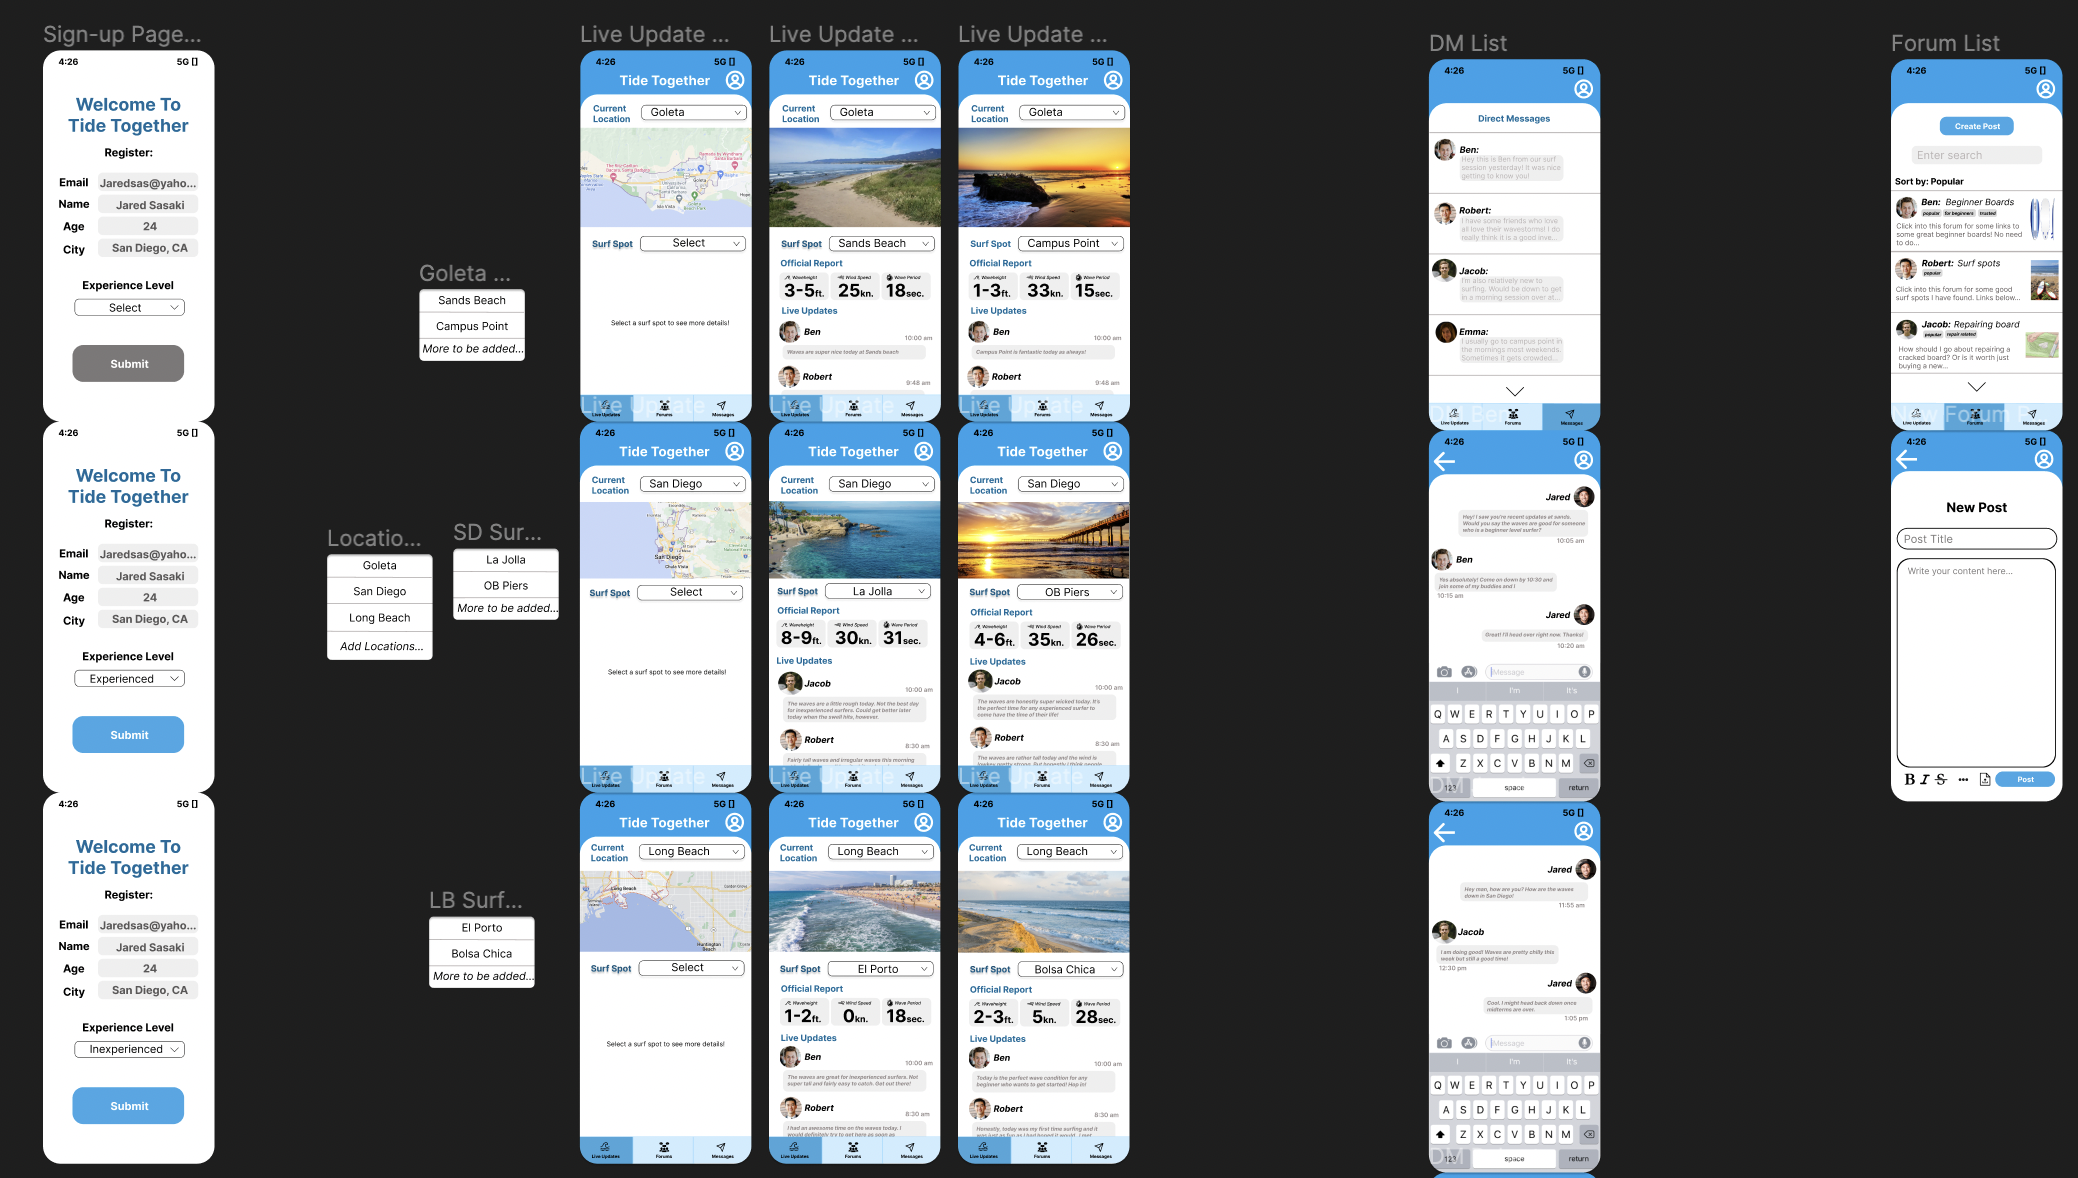
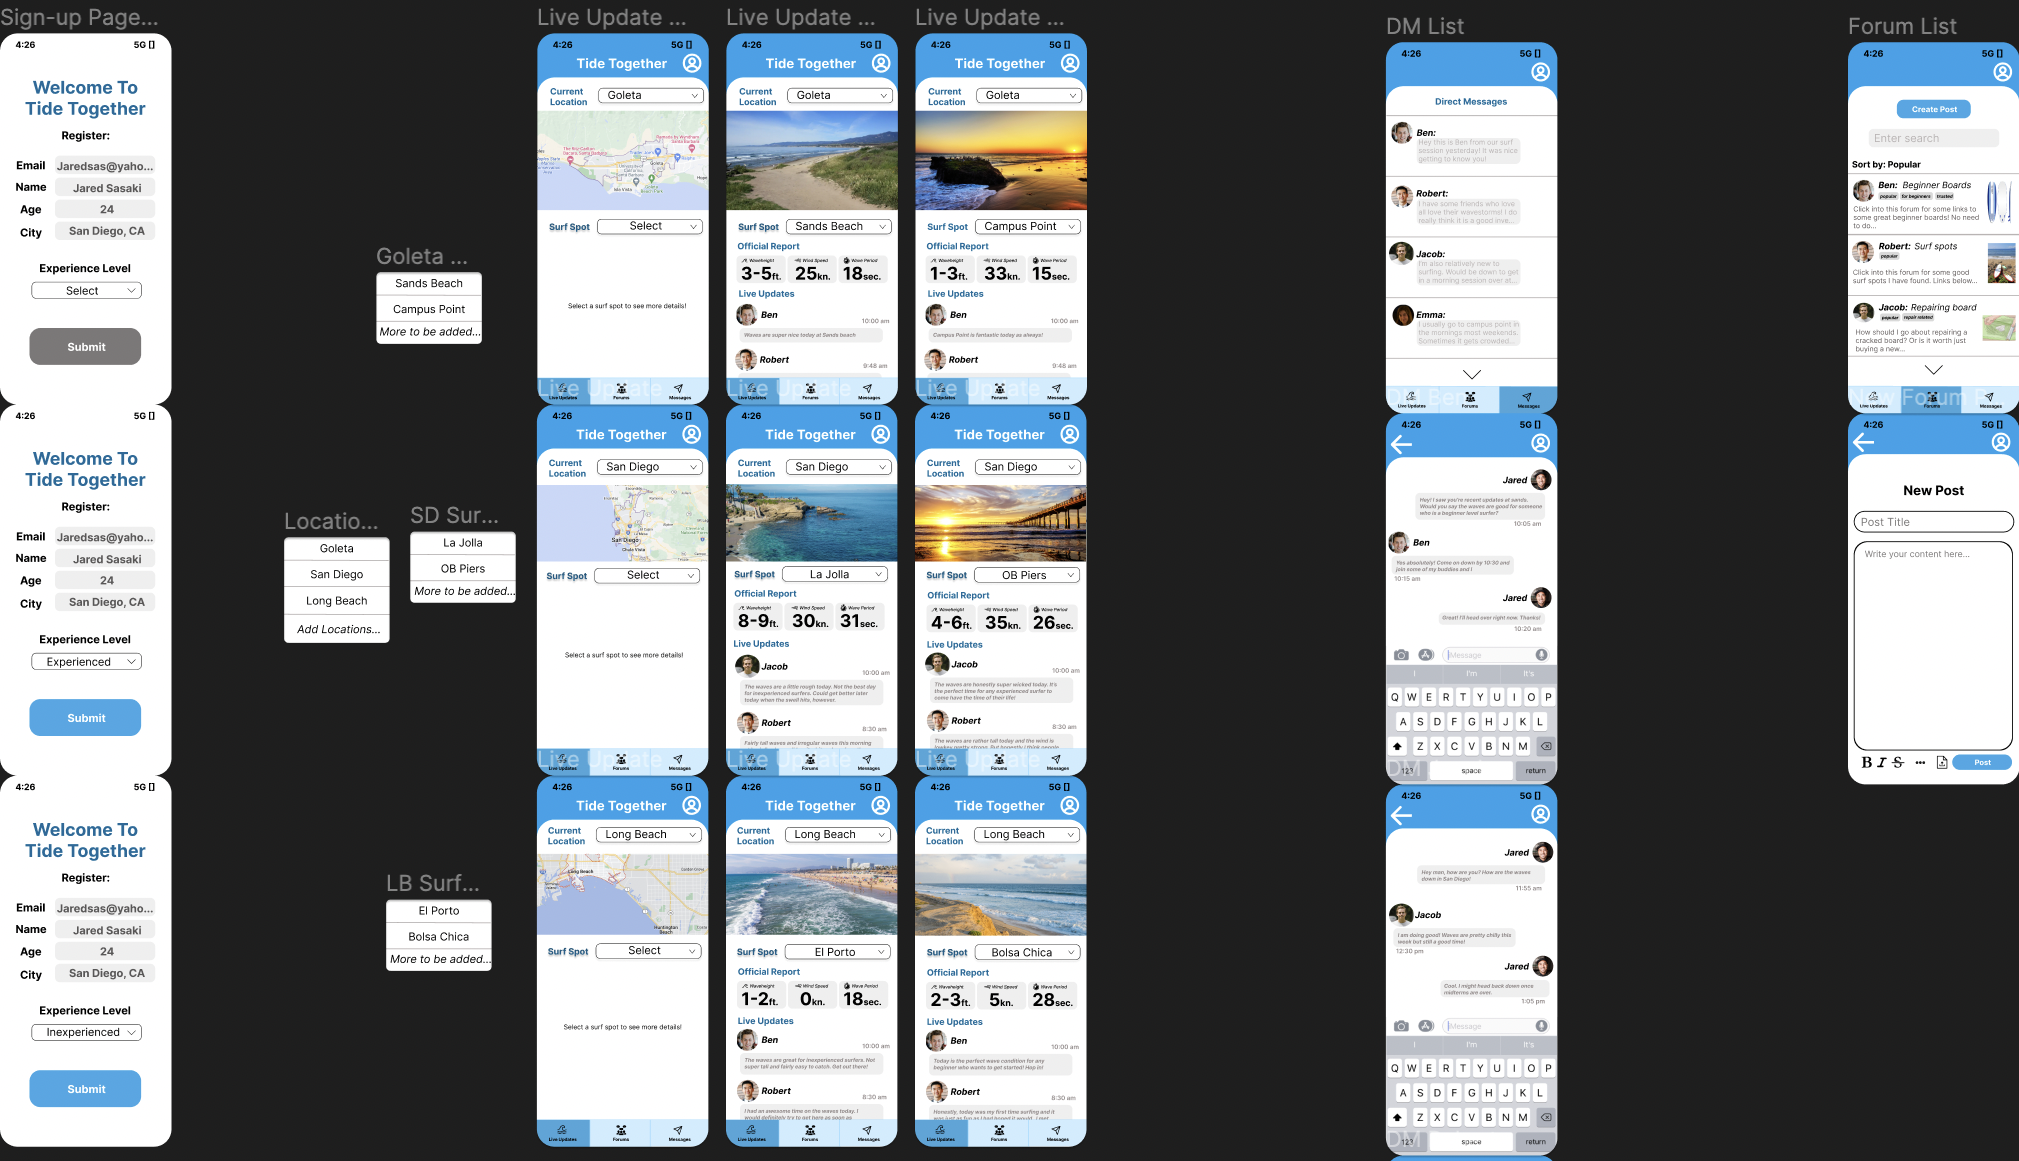
navbar numbers adjusted, new resume, tide together png cropped, disable ripple on navbar buttons

diff --git a/client/src/Components/Navbar.jsx b/client/src/Components/Navbar.jsx
@@ -32,7 +32,19 @@ const Navbar = ({ toggleDarkMode, isDarkMode }) => {
             <Toolbar style={{  display: 'flex', justifyContent: 'end' }}>
                 <List component="nav" aria-labelledby="main navigation" style={{ display: 'flex', justifyContent: 'end' }}>
                     <Fade in timeout={1500} style={{transitionDelay: '0ms'}}>
-                        <ListItem component={HashLink} to="#top" smooth button sx={{
+                        <ListItem component={HashLink} to="#top" smooth button disableRipple sx={{
+                                                    borderBottom: `1px solid transparent`,
+                                                    "&:hover": {
+                                                    backgroundColor: "transparent",
+                                                    borderBottom: `1px solid ${theme.palette.primary.textPrimary}`
+                                                    }
+                                                }}>
+                            <Typography style={{color: theme.palette.primary.textPrimary}}>00.&nbsp;&nbsp;</Typography>
+                            <ListItemText primary="Home" style={{ textDecoration: 'none', color: theme.palette.type === 'dark' ? theme.palette.primary.textSecondary : theme.palette.primary.textContrast }} />
+                        </ListItem>
+                    </Fade>
+                    <Fade in timeout={1500} style={{transitionDelay: '200ms'}}>
+                        <ListItem component={HashLink} to="#aboutme" smooth button disableRipple sx={{
                                                     borderBottom: `1px solid transparent`,
                                                     "&:hover": {
                                                     backgroundColor: "transparent",
@@ -40,11 +52,11 @@ const Navbar = ({ toggleDarkMode, isDarkMode }) => {
                                                     }
                                                 }}>
                             <Typography style={{color: theme.palette.primary.textPrimary}}>01.&nbsp;&nbsp;</Typography>
-                            <ListItemText primary="Home" style={{ textDecoration: 'none', color: theme.palette.type === 'dark' ? theme.palette.primary.textSecondary : theme.palette.primary.textContrast }} />
+                            <ListItemText primary="About" style={{ textDecoration: 'none', color: theme.palette.type === 'dark' ? theme.palette.primary.textSecondary : theme.palette.primary.textContrast }} />
                         </ListItem>
                     </Fade>
-                    <Fade in timeout={1500} style={{transitionDelay: '200ms'}}>
-                        <ListItem component={HashLink} to="#aboutme" smooth button sx={{
+                    <Fade in timeout={1500} style={{transitionDelay: '400ms'}}>
+                        <ListItem component={HashLink} to="#experience" smooth button disableRipple sx={{
                                                     borderBottom: `1px solid transparent`,
                                                     "&:hover": {
                                                     backgroundColor: "transparent",
@@ -52,11 +64,11 @@ const Navbar = ({ toggleDarkMode, isDarkMode }) => {
                                                     }
                                                 }}>
                             <Typography style={{color: theme.palette.primary.textPrimary}}>02.&nbsp;&nbsp;</Typography>
-                            <ListItemText primary="About" style={{ textDecoration: 'none', color: theme.palette.type === 'dark' ? theme.palette.primary.textSecondary : theme.palette.primary.textContrast }} />
+                            <ListItemText primary="Experience" style={{ textDecoration: 'none', color: theme.palette.type === 'dark' ? theme.palette.primary.textSecondary : theme.palette.primary.textContrast }} />
                         </ListItem>
                     </Fade>
-                    <Fade in timeout={1500} style={{transitionDelay: '400ms'}}>
-                        <ListItem component={HashLink} to="#experience" smooth button sx={{
+                    <Fade in timeout={1500} style={{transitionDelay: '600ms'}}>
+                        <ListItem component={HashLink} to="#gallery" smooth button disableRipple sx={{
                                                     borderBottom: `1px solid transparent`,
                                                     "&:hover": {
                                                     backgroundColor: "transparent",
@@ -64,11 +76,11 @@ const Navbar = ({ toggleDarkMode, isDarkMode }) => {
                                                     }
                                                 }}>
                             <Typography style={{color: theme.palette.primary.textPrimary}}>03.&nbsp;&nbsp;</Typography>
-                            <ListItemText primary="Experience" style={{ textDecoration: 'none', color: theme.palette.type === 'dark' ? theme.palette.primary.textSecondary : theme.palette.primary.textContrast }} />
+                            <ListItemText primary="Gallery" style={{ textDecoration: 'none', color: theme.palette.type === 'dark' ? theme.palette.primary.textSecondary : theme.palette.primary.textContrast }} />
                         </ListItem>
                     </Fade>
-                    <Fade in timeout={1500} style={{transitionDelay: '600ms'}}>
-                        <ListItem component={HashLink} to="#gallery" smooth button sx={{
+                    <Fade in timeout={1500} style={{transitionDelay: '800ms'}}>
+                        <ListItem component={HashLink} to="#contact" smooth button disableRipple sx={{
                                                     borderBottom: `1px solid transparent`,
                                                     "&:hover": {
                                                     backgroundColor: "transparent",
@@ -76,25 +88,11 @@ const Navbar = ({ toggleDarkMode, isDarkMode }) => {
                                                     }
                                                 }}>
                             <Typography style={{color: theme.palette.primary.textPrimary}}>04.&nbsp;&nbsp;</Typography>
-                            <ListItemText primary="Gallery" style={{ textDecoration: 'none', color: theme.palette.type === 'dark' ? theme.palette.primary.textSecondary : theme.palette.primary.textContrast }} />
-                        </ListItem>
-                    </Fade>
-                    <Fade in timeout={1500} style={{transitionDelay: '800ms'}}>
-                        <ListItem component={HashLink} to="#contact" smooth button sx={{
-                                                    borderBottom: `1px solid transparent`,
-                                                    "&:hover": {
-                                                    backgroundColor: "transparent",
-                                                    borderBottom: `1px solid ${theme.palette.primary.textPrimary}`
-                                                    }
-                                                }}>
-                            <Typography style={{color: theme.palette.primary.textPrimary}}>05.&nbsp;&nbsp;</Typography>
                             <ListItemText primary="Contact" style={{ textDecoration: 'none', color: theme.palette.type === 'dark' ? theme.palette.primary.textSecondary : theme.palette.primary.textContrast }} />
                         </ListItem>
                     </Fade>
                     
                 </List>
-               
-                <ThemeToggle toggleDarkMode={toggleDarkMode} isDarkMode={isDarkMode}></ThemeToggle>
                 
             </Toolbar>
         </AppBar>
